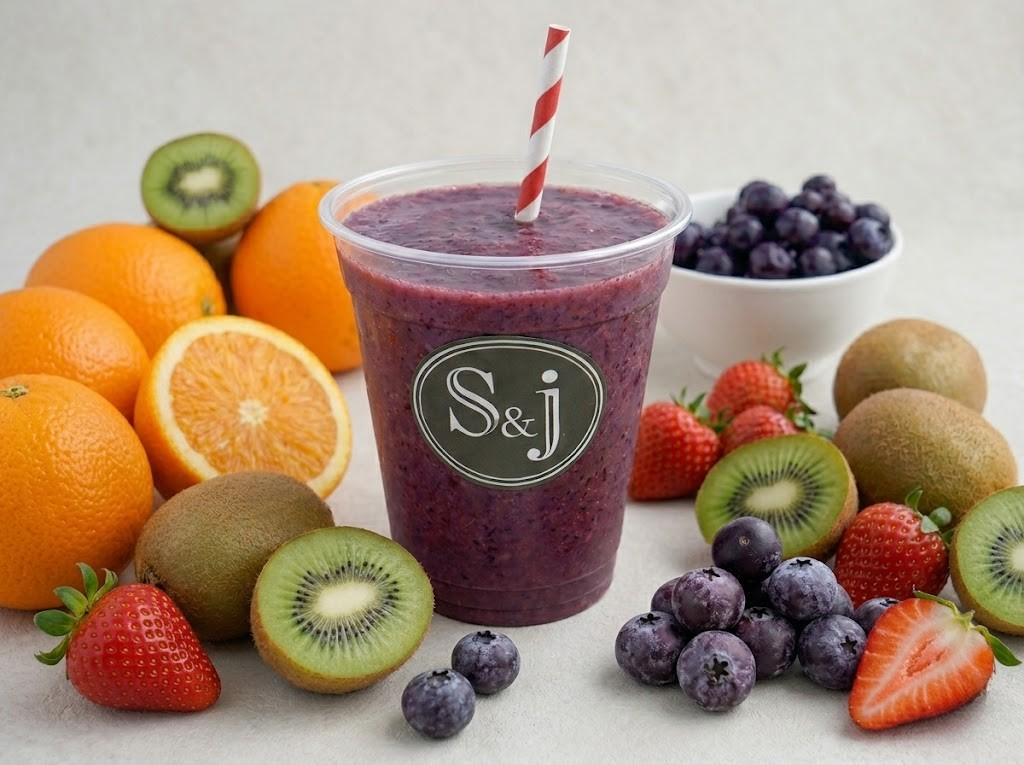
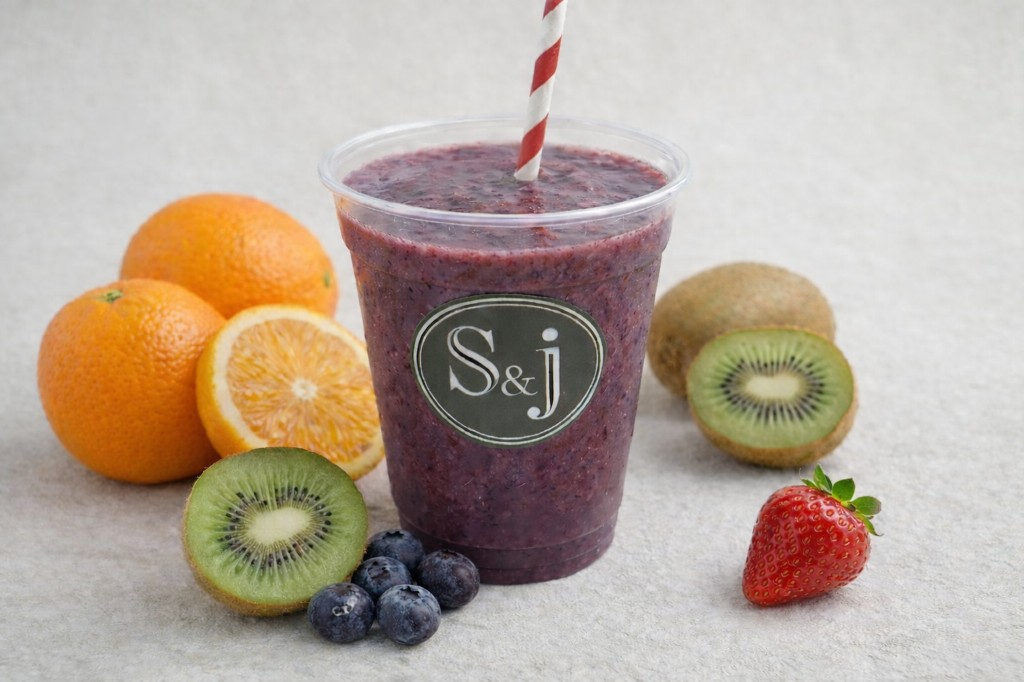
changement des photo, ajout catering

diff --git a/frontend/src/pages/Restaurants.jsx b/frontend/src/pages/Restaurants.jsx
@@ -7,7 +7,8 @@ import "./Restaurants.css";
 import deliveroLogo from "../assets/images/delivero.svg";
 import logoVert from "../assets/images/logo-vert.png";
 import metroLogo from "../assets/images/metro-logo.png";
-import photoEcuries from "../assets/images/restaurants/photo_Ecuries.jpg";
+import photoEcuries from "../assets/images/restaurants/photo_Ecuries.png";
+import photoEcuries2 from "../assets/images/restaurants/photo_Ecuries_2.png";
 import photoMadeleine from "../assets/images/restaurants/photo_madeleine.png";
 import photoLondre from "../assets/images/restaurants/photo_londre.jpg";
 import photoNeuilly from "../assets/images/restaurants/photo_neuilly.jpg";
@@ -36,14 +37,76 @@ const METRO_VISIBLE_ZOOM = 14;   // logos métro visibles à partir de ce zoom
 const MONUMENT_VISIBLE_ZOOM = 13; // monuments visibles à partir de ce zoom (un peu moins loin que 12)
 
 // Photos des restaurants (fallback: logo)
+// Tableau pour permettre plusieurs photos par restaurant.
 const restaurantPhotos = {
-  1: photoLondre,      // ST LAZARE - Rue de Londres
-  3: photoHaussmann,   // HAUSSMANN
-  4: photoEcuries,     // ÉCURIES
-  5: photoEtoile,      // ÉTOILE - Avenue Kléber
-  7: photoNeuilly,     // NEUILLY
-  8: photoHonore,      // HONORÉ - Saint Honoré
-  9: photoMadeleine,   // MADELEINE
+  1: [photoLondre],                    // ST LAZARE - Rue de Londres
+  3: [photoHaussmann],                 // HAUSSMANN
+  4: [photoEcuries, photoEcuries2],    // ÉCURIES
+  5: [photoEtoile],                    // ÉTOILE - Avenue Kléber
+  7: [photoNeuilly],                   // NEUILLY
+  8: [photoHonore],                    // HONORÉ - Saint Honoré
+  9: [photoMadeleine],                 // MADELEINE
+};
+
+const RestaurantPhotoCarousel = ({ photos }) => {
+  const [index, setIndex] = useState(0);
+
+  if (!photos || photos.length === 0) {
+    return null;
+  }
+  if (photos.length === 1) {
+    return (
+      <img
+        src={photos[0]}
+        alt=""
+        className="restaurant-detail-panel-logo restaurant-detail-panel-photo"
+      />
+    );
+  }
+
+  const goPrev = () => {
+    setIndex((i) => (i - 1 + photos.length) % photos.length);
+  };
+
+  const goNext = () => {
+    setIndex((i) => (i + 1) % photos.length);
+  };
+
+  return (
+    <div className="restaurant-photo-carousel">
+      <button
+        type="button"
+        className="restaurant-photo-carousel-arrow restaurant-photo-carousel-arrow--prev"
+        onClick={goPrev}
+        aria-label="Photo précédente du restaurant"
+      >
+        ‹
+      </button>
+      <img
+        src={photos[index]}
+        alt=""
+        className="restaurant-detail-panel-logo restaurant-detail-panel-photo"
+      />
+      <button
+        type="button"
+        className="restaurant-photo-carousel-arrow restaurant-photo-carousel-arrow--next"
+        onClick={goNext}
+        aria-label="Photo suivante du restaurant"
+      >
+        ›
+      </button>
+      <div className="restaurant-photo-carousel-dots" aria-hidden="true">
+        {photos.map((_, i) => (
+          <button
+            key={i}
+            type="button"
+            className={`restaurant-photo-carousel-dot ${i === index ? "active" : ""}`}
+            onClick={() => setIndex(i)}
+          />
+        ))}
+      </div>
+    </div>
+  );
 };
 
 // Coordonnées vérifiées via géocodage OSM (Nominatim) — [longitude, latitude]
@@ -202,11 +265,15 @@ export const Restaurants = () => {
                 <X size={20} strokeWidth={2.5} aria-hidden />
               </button>
               <div className="restaurant-detail-panel-image">
-                <img
-                  src={restaurantPhotos[selectedRestaurant.id] ?? logoVert}
-                  alt=""
-                  className={`restaurant-detail-panel-logo ${restaurantPhotos[selectedRestaurant.id] ? "restaurant-detail-panel-photo" : ""}`}
-                />
+                {restaurantPhotos[selectedRestaurant.id] ? (
+                  <RestaurantPhotoCarousel photos={restaurantPhotos[selectedRestaurant.id]} />
+                ) : (
+                  <img
+                    src={logoVert}
+                    alt=""
+                    className="restaurant-detail-panel-logo"
+                  />
+                )}
               </div>
               <div className="restaurant-detail-panel-body">
                 <h2 className="restaurant-detail-panel-name">{selectedRestaurant.name}</h2>

diff --git a/frontend/src/pages/Catering.jsx b/frontend/src/pages/Catering.jsx
@@ -1,0 +1,76 @@
+import { AnimatedSection, AnimatedItem } from "../components/AnimatedSection";
+import { useTranslation } from "react-i18next";
+import { Link } from "react-router-dom";
+import traiteurJus from "../assets/images/catering/traiteur-jus.png";
+import miniSalades from "../assets/images/catering/mini-salades.png";
+
+export const Catering = () => {
+  const { t } = useTranslation();
+
+  const description = t("catering.description");
+
+  return (
+    <main className="adn-page">
+      <AnimatedSection id="catering" animation="fadeInUp" className="adn-section">
+        {/* Bloc texte principal + photo jus */}
+        <section className="adn-identity-section">
+          <div className="adn-identity-container">
+            <div className="adn-identity-content">
+              <AnimatedItem animation="fadeInUp" delay={100}>
+                <span className="adn-section-label">{t("catering.label")}</span>
+                <h2 className="adn-identity-title">{t("catering.title")}</h2>
+                <p className="adn-identity-text">
+                  {description}
+                </p>
+              </AnimatedItem>
+            </div>
+            <AnimatedItem animation="fadeInUp" delay={200} className="adn-identity-image">
+              <div className="adn-photo-placeholder">
+                <img
+                  src={traiteurJus}
+                  alt={t("catering.imageJuicesAlt")}
+                  className="adn-photo"
+                />
+              </div>
+            </AnimatedItem>
+          </div>
+        </section>
+
+        {/* Bloc mini-plats / finger food */}
+        <section className="adn-quality-section">
+          <div className="adn-quality-container">
+            <AnimatedItem animation="fadeInUp" delay={200} className="adn-quality-image">
+              <div className="adn-photo-placeholder">
+                <img
+                  src={miniSalades}
+                  alt={t("catering.imageBuffetAlt")}
+                  className="adn-photo"
+                />
+              </div>
+            </AnimatedItem>
+            <div className="adn-quality-content">
+              <AnimatedItem animation="fadeInUp" delay={100}>
+                <span className="adn-section-label">{t("catering.sectionFormatsLabel")}</span>
+                <h2 className="adn-quality-title">{t("catering.sectionFormatsTitle")}</h2>
+                <p className="adn-quality-text">{t("catering.sectionFormatsText")}</p>
+              </AnimatedItem>
+            </div>
+          </div>
+        </section>
+
+        {/* CTA Nous contacter */}
+        <section className="adn-pillars-cta-section">
+          <div className="adn-pillars-cta-container">
+            <AnimatedItem animation="fadeInUp" delay={100}>
+              <h2 className="adn-pillars-cta-title">{t("catering.ctaTitle")}</h2>
+              <Link to="/contact" className="adn-pillars-cta-link">
+                {t("catering.ctaContact")}
+              </Link>
+            </AnimatedItem>
+          </div>
+        </section>
+      </AnimatedSection>
+    </main>
+  );
+};
+

diff --git a/frontend/src/pages/Restaurants.css b/frontend/src/pages/Restaurants.css
@@ -116,6 +116,7 @@
   align-items: center;
   justify-content: center;
   overflow: hidden;
+  position: relative;
 }
 
 .restaurant-detail-panel-logo {
@@ -133,6 +134,83 @@
   object-fit: cover;
   object-position: top center;
   filter: none;
+}
+
+/* Carrousel photo restaurant (panneau détail) */
+.restaurant-photo-carousel {
+  position: relative;
+  width: 100%;
+  height: 100%;
+  display: flex;
+  align-items: center;
+  justify-content: center;
+}
+
+.restaurant-photo-carousel-arrow {
+  position: absolute;
+  top: 50%;
+  transform: translateY(-50%);
+  width: 34px;
+  height: 34px;
+  border-radius: 50%;
+  border: none;
+  background: rgba(255, 255, 255, 0.9);
+  box-shadow: 0 2px 6px rgba(0, 0, 0, 0.25);
+  color: #333;
+  display: flex;
+  align-items: center;
+  justify-content: center;
+  cursor: pointer;
+  z-index: 2;
+  font-size: 20px;
+  line-height: 1;
+  padding: 0;
+  transition: background 0.2s ease, transform 0.15s ease, box-shadow 0.2s ease;
+}
+
+.restaurant-photo-carousel-arrow--prev {
+  left: 12px;
+}
+
+.restaurant-photo-carousel-arrow--next {
+  right: 12px;
+}
+
+.restaurant-photo-carousel-arrow:hover {
+  background: #fff;
+  transform: translateY(-50%) scale(1.05);
+  box-shadow: 0 4px 10px rgba(0, 0, 0, 0.3);
+}
+
+.restaurant-photo-carousel img.restaurant-detail-panel-photo {
+  width: 100%;
+  height: 100%;
+}
+
+.restaurant-photo-carousel-dots {
+  position: absolute;
+  bottom: 10px;
+  left: 50%;
+  transform: translateX(-50%);
+  display: flex;
+  gap: 6px;
+  padding: 4px 10px;
+  border-radius: 999px;
+  background: rgba(0, 0, 0, 0.35);
+}
+
+.restaurant-photo-carousel-dot {
+  width: 7px;
+  height: 7px;
+  border-radius: 50%;
+  border: none;
+  padding: 0;
+  background: rgba(255, 255, 255, 0.6);
+  cursor: pointer;
+}
+
+.restaurant-photo-carousel-dot.active {
+  background: #fff;
 }
 
 .restaurant-detail-panel-body {
@@ -323,7 +401,13 @@
   background: var(--green-light);
 }
 
-/* Marqueurs personnalisés MapLibre */
+/* Marqueurs personnalisés MapLibre — garder les bords arrondis (override du reset global) */
+.restaurants-page .map-container .custom-marker,
+.restaurants-page .map-container .custom-marker > div,
+.restaurants-page .map-container .custom-marker > div > div {
+  border-radius: 8px !important;
+}
+
 .custom-marker {
   position: relative;
   animation: markerAppear 0.4s ease-out;

diff --git a/frontend/src/App.jsx b/frontend/src/App.jsx
@@ -11,6 +11,7 @@ import { NosPiliers } from "./pages/NosPiliers";
 import { ProduitsMenuTest } from "./pages/ProduitsMenuTest";
 import { Contact } from "./pages/Contact";
 import { Allergenes } from "./pages/Allergenes";
+import { Catering } from "./pages/Catering";
 
 const Restaurants = lazy(() => import("./pages/Restaurants").then((m) => ({ default: m.Restaurants })));
 
@@ -54,6 +55,7 @@ function AppContent() {
           <Route path="/produits" element={<ProduitsMenuTest />} />
           <Route path="/adn" element={<ADN />} />
           <Route path="/nos-piliers" element={<NosPiliers />} />
+          <Route path="/catering" element={<Catering />} />
           <Route path="/restaurants" element={<Suspense fallback={<div style={{ padding: "2rem", textAlign: "center" }}><LoadingFallback /></div>}><Restaurants /></Suspense>} />
           <Route path="/contact" element={<Contact />} />
           <Route path="/allergenes" element={<Allergenes />} />

diff --git a/frontend/src/components/Header.jsx b/frontend/src/components/Header.jsx
@@ -110,6 +110,7 @@ export const Header = () => {
           <Link to="/restaurants" className="nav-link" onClick={() => setMobileMenuOpen(false)}>{t("header.navRestaurants")}</Link>
           <Link to="/adn" className="nav-link" onClick={() => setMobileMenuOpen(false)}>{t("header.navAdn")}</Link>
           <Link to="/nos-piliers" className="nav-link" onClick={() => setMobileMenuOpen(false)}>{t("header.navPiliers")}</Link>
+          <Link to="/catering" className="nav-link" onClick={() => setMobileMenuOpen(false)}>{t("header.navCatering")}</Link>
           <Link to="/contact" className="nav-link" onClick={() => setMobileMenuOpen(false)}>{t("header.navContact")}</Link>
           <div className="nav-right-bottom">
             <a

diff --git a/frontend/src/pages/ProduitsMenuTest.css b/frontend/src/pages/ProduitsMenuTest.css
@@ -314,7 +314,7 @@
   color: #444;
   background: transparent;
   border: none;
-  border-radius: 8px;
+  border-radius: 0 !important;
   cursor: pointer;
   text-align: left;
   transition: background 0.15s, color 0.15s;
@@ -332,6 +332,7 @@
   background: var(--green-light, #e8ede6);
   color: var(--green-dark, #5a6654);
   font-weight: 700;
+  border-radius: 0 !important;
 }
 
 .menu-test-nav-item.active::before {
@@ -342,7 +343,7 @@
   bottom: 20%;
   width: 3px;
   background: var(--green, #82907B);
-  border-radius: 0 2px 2px 0;
+  border-radius: 0;
 }
 
 .menu-test-nav-item.active:hover {

diff --git a/frontend/src/pages/ProduitsMenuTest.jsx b/frontend/src/pages/ProduitsMenuTest.jsx
@@ -185,11 +185,6 @@ export const ProduitsMenuTest = () => {
                 aria-current={activeCategory === cat ? "true" : undefined}
               >
                 {t(`products.categories.${CATEGORY_I18N_KEYS[cat] || cat}`)}
-                {productsByCategory[cat] && (
-                  <span className="menu-test-nav-count">
-                    {productsByCategory[cat].length}
-                  </span>
-                )}
               </button>
             ))}
           </nav>

diff --git a/frontend/src/App.css b/frontend/src/App.css
@@ -1916,6 +1916,7 @@ body {
   max-height: 300px;
 }
 
+
 .adn-photo {
   width: 100%;
   height: 100%;
@@ -2086,7 +2087,7 @@ body {
     grid-template-columns: 1fr;
     gap: 1.5rem;
   }
-  
+
   .adn-quality-container .adn-quality-image {
     order: 2;
   }

diff --git a/frontend/src/components/ProductSheet.css b/frontend/src/components/ProductSheet.css
@@ -1,7 +1,7 @@
 .product-sheet-overlay {
   position: fixed;
   inset: 0;
-  z-index: 1000;
+  z-index: 1200;
   display: flex;
   align-items: center;
   justify-content: center;
